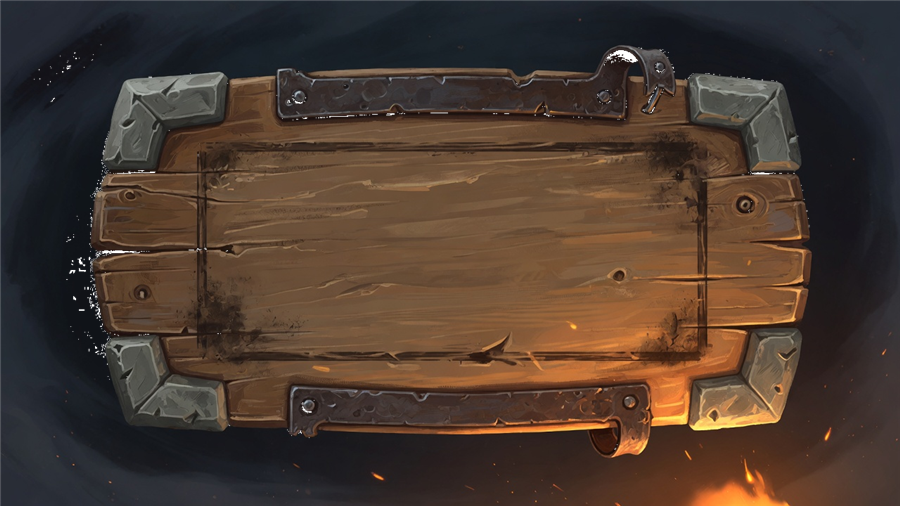
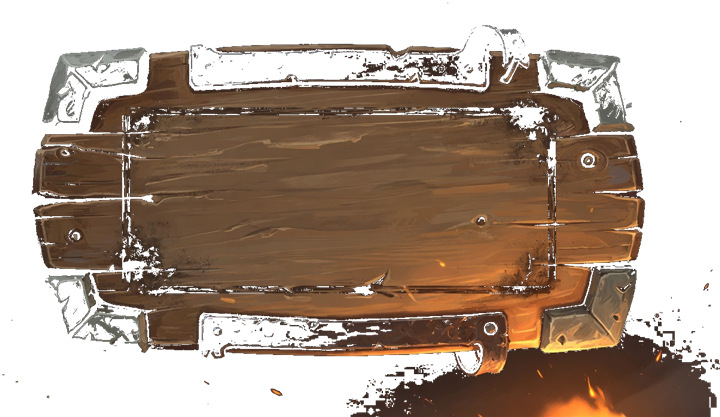
fix(trading-post): cutout painted buttons + better relic Sell placement
Alpha-cut wood plate art so buttons show drawn irregular edges instead
of a sharp theme rectangle. Relic Sell is centered under the inspect
popup (not a full-width bottom bar). Shop Trade uses the same plate.

diff --git a/mods/trading-post/src/TradeUi.cs b/mods/trading-post/src/TradeUi.cs
@@ -109,20 +109,19 @@ public static class TradeUi
 
     private static void BuildButtonStyles()
     {
-        // Prefer rest-site painted plates (soft irregular edges) over sharp flat chrome.
+        // Full painted silhouette (alpha cutout). No 9-slice — stretch preserves
+        // irregular edges instead of re-boxing the plate.
         Texture2D? plate = TradeAssets.BtnRestBar ?? TradeAssets.BtnPlate;
-        StyleBoxTexture? painted = TradeAssets.MakeNineSlice(plate, margin: 48f, content: 22f);
+        StyleBoxTexture? painted = TradeAssets.MakePaintedPlateStyle(plate);
         if (painted != null)
         {
             _btnNormal = painted;
-            // Same plate for hover/pressed — brightness is handled by the engine's
-            // button draw modes; StyleBoxTexture has no modulate in this Godot API.
             _btnHover = painted;
             _btnPressed = painted;
             return;
         }
 
-        // Soft rounded fallback (still not sharp 1px edges).
+        // Soft rounded fallback only if plate art missing.
         StyleBoxFlat Make(Color bg, Color border)
         {
             return new StyleBoxFlat
@@ -130,8 +129,8 @@ public static class TradeUi
                 BgColor = bg,
                 BorderColor = border,
                 BorderWidthBottom = 3, BorderWidthTop = 3, BorderWidthLeft = 3, BorderWidthRight = 3,
-                CornerRadiusBottomLeft = 18, CornerRadiusBottomRight = 18,
-                CornerRadiusTopLeft = 18, CornerRadiusTopRight = 18,
+                CornerRadiusBottomLeft = 22, CornerRadiusBottomRight = 22,
+                CornerRadiusTopLeft = 22, CornerRadiusTopRight = 22,
                 ContentMarginLeft = 22, ContentMarginRight = 22,
                 ContentMarginTop = 14, ContentMarginBottom = 14,
             };
@@ -141,12 +140,78 @@ public static class TradeUi
         _btnPressed = Make(new Color(0.07f, 0.05f, 0.04f, 0.96f), new Color(0.40f, 0.30f, 0.15f));
     }
 
-    /// <summary>Public factory for painted rest-site-style buttons (relic sell, etc.).</summary>
+    /// <summary>
+    /// Rest-site style drawn button: alpha-cut wood plate as the only chrome
+    /// (no sharp default Button panel). Used for relic Sell and shop Trade UI.
+    /// </summary>
     public static Button MakePaintedButton(string text, Action onPressed,
-        float minWidth = 620, float minHeight = 64)
+        float minWidth = 300, float minHeight = 84)
     {
         EnsureStyles();
-        return MakeButton(text, onPressed, minWidth, minHeight);
+        Texture2D? plate = TradeAssets.BtnRestBar ?? TradeAssets.BtnPlate;
+
+        var button = new Button
+        {
+            Text = "",
+            Flat = true,
+            CustomMinimumSize = new Vector2(minWidth, minHeight),
+            ClipContents = false,
+        };
+        // Strip every default stylebox — otherwise Godot draws a sharp rect under the art.
+        var empty = new StyleBoxEmpty();
+        button.AddThemeStyleboxOverride("normal", empty);
+        button.AddThemeStyleboxOverride("hover", empty);
+        button.AddThemeStyleboxOverride("pressed", empty);
+        button.AddThemeStyleboxOverride("disabled", empty);
+        button.AddThemeStyleboxOverride("focus", empty);
+
+        if (plate != null)
+        {
+            var bg = new TextureRect
+            {
+                Name = "PaintedPlate",
+                Texture = plate,
+                ExpandMode = TextureRect.ExpandModeEnum.IgnoreSize,
+                StretchMode = TextureRect.StretchModeEnum.KeepAspectCentered,
+                MouseFilter = Control.MouseFilterEnum.Ignore,
+                // Slight brighten on hover via modulate is optional; keep static for now.
+            };
+            bg.SetAnchorsAndOffsetsPreset(Control.LayoutPreset.FullRect);
+            button.AddChild(bg);
+            // Ensure plate draws behind the label.
+            button.MoveChild(bg, 0);
+        }
+        else
+        {
+            ApplyButtonChrome(button);
+        }
+
+        var label = new Label
+        {
+            Text = text,
+            HorizontalAlignment = HorizontalAlignment.Center,
+            VerticalAlignment = VerticalAlignment.Center,
+            MouseFilter = Control.MouseFilterEnum.Ignore,
+        };
+        label.SetAnchorsAndOffsetsPreset(Control.LayoutPreset.FullRect);
+        label.OffsetLeft = 28;
+        label.OffsetRight = -28;
+        label.OffsetTop = 8;
+        label.OffsetBottom = -10;
+        if (_buttonFont != null)
+        {
+            label.AddThemeFontOverride("font", _buttonFont);
+        }
+        label.AddThemeFontSizeOverride("font_size", _buttonSize + 2);
+        label.AddThemeColorOverride("font_color", new Color(0.96f, 0.92f, 0.78f));
+        // Soft shadow for readability on wood
+        label.AddThemeColorOverride("font_shadow_color", new Color(0f, 0f, 0f, 0.65f));
+        label.AddThemeConstantOverride("shadow_offset_x", 1);
+        label.AddThemeConstantOverride("shadow_offset_y", 1);
+        button.AddChild(label);
+
+        button.Pressed += () => onPressed();
+        return button;
     }
 
     private static StyleBox? FindPanelStyle(Node node)
@@ -219,6 +284,11 @@ public static class TradeUi
             button.AddThemeFontOverride("font", _buttonFont);
         }
         button.AddThemeFontSizeOverride("font_size", _buttonSize);
+        // Flat + empty focus so the theme never paints a sharp rect around the plate.
+        button.Flat = true;
+        var empty = new StyleBoxEmpty();
+        button.AddThemeStyleboxOverride("focus", empty);
+        button.AddThemeStyleboxOverride("disabled", empty);
         if (_btnNormal != null)
         {
             button.AddThemeStyleboxOverride("normal", _btnNormal);
@@ -235,6 +305,11 @@ public static class TradeUi
 
     private static Button MakeButton(string text, Action onPressed, float minWidth = 620, float minHeight = 64)
     {
+        // Prefer painted cutout plate for all Trading Post chrome buttons.
+        if (TradeAssets.BtnRestBar != null || TradeAssets.BtnPlate != null)
+        {
+            return MakePaintedButton(text, onPressed, minWidth, minHeight);
+        }
         var button = new Button { Text = text, CustomMinimumSize = new Vector2(minWidth, minHeight) };
         ApplyButtonChrome(button);
         button.Pressed += () => onPressed();
@@ -245,12 +320,41 @@ public static class TradeUi
     private static Button MakeIconButton(string text, Texture2D? icon, Action onPressed,
         float minWidth = 640, float minHeight = 88)
     {
+        // Use the same drawn plate path so shop Trade isn't a sharp rect.
+        if (icon == null && (TradeAssets.BtnRestBar != null || TradeAssets.BtnPlate != null))
+        {
+            return MakePaintedButton(text, onPressed, minWidth, minHeight);
+        }
+
         var button = new Button
         {
             CustomMinimumSize = new Vector2(minWidth, minHeight),
             Text = "", // content is custom
+            Flat = true,
         };
-        ApplyButtonChrome(button);
+        // Empty chrome + painted plate as child (keeps alpha silhouette).
+        var empty = new StyleBoxEmpty();
+        button.AddThemeStyleboxOverride("normal", empty);
+        button.AddThemeStyleboxOverride("hover", empty);
+        button.AddThemeStyleboxOverride("pressed", empty);
+        button.AddThemeStyleboxOverride("focus", empty);
+        Texture2D? plate = TradeAssets.BtnRestBar ?? TradeAssets.BtnPlate;
+        if (plate != null)
+        {
+            var bg = new TextureRect
+            {
+                Texture = plate,
+                ExpandMode = TextureRect.ExpandModeEnum.IgnoreSize,
+                StretchMode = TextureRect.StretchModeEnum.KeepAspectCentered,
+                MouseFilter = Control.MouseFilterEnum.Ignore,
+            };
+            bg.SetAnchorsAndOffsetsPreset(Control.LayoutPreset.FullRect);
+            button.AddChild(bg);
+        }
+        else
+        {
+            ApplyButtonChrome(button);
+        }
 
         var row = new HBoxContainer
         {
@@ -396,16 +500,15 @@ public static class TradeUi
     public static void AddTradeButton(Control shopScreen)
     {
         EnsureStyles();
-        // Prefer the campfire-option plate look over a sharp chrome widget.
-        Button button = MakeIconButton("Trade", TradeAssets.IconGold ?? TradeAssets.IconTrade, OpenMenu,
-            minWidth: 300, minHeight: 84);
+        // Drawn wood plate cutout (alpha edges) — not a sharp theme rect.
+        Button button = MakePaintedButton("Trade", OpenMenu, minWidth: 300, minHeight: 96);
         button.Name = "TradingPostButton";
         shopScreen.AddChild(button);
         button.SetAnchorsAndOffsetsPreset(Control.LayoutPreset.BottomLeft);
-        button.OffsetLeft = 28;
-        button.OffsetRight = 328;
-        button.OffsetTop = -150;
-        button.OffsetBottom = -66;
+        button.OffsetLeft = 24;
+        button.OffsetRight = 324;
+        button.OffsetTop = -158;
+        button.OffsetBottom = -62;
     }
 
     private static void OpenMenu()

diff --git a/mods/trading-post/src/TradeAssets.cs b/mods/trading-post/src/TradeAssets.cs
@@ -14,10 +14,13 @@ public static class TradeAssets
     public static Texture2D? OptionTrade => Load("option_trade.png", punchBlack: false);
     public static Texture2D? MenuBanner => Load("menu_banner.png", punchBlack: false);
     public static Texture2D? MenuPanel => Load("menu_panel.png", punchBlack: false);
-    /// <summary>Painted rest-site style horizontal button plate (soft edges, wood/stone).</summary>
-    public static Texture2D? BtnPlate => Load("btn_plate.png", punchBlack: false)
-                                        ?? Load("btn_rest_bar.png", punchBlack: false);
-    public static Texture2D? BtnRestBar => Load("btn_rest_bar.png", punchBlack: false) ?? BtnPlate;
+    /// <summary>
+    /// Painted rest-site style horizontal button plate. Loaded with dark-bg punch so
+    /// only the drawn wood silhouette is opaque (no sharp rectangular plate).
+    /// </summary>
+    public static Texture2D? BtnPlate => Load("btn_plate.png", punchBlack: true)
+                                        ?? Load("btn_rest_bar.png", punchBlack: true);
+    public static Texture2D? BtnRestBar => Load("btn_rest_bar.png", punchBlack: true) ?? BtnPlate;
     public static Texture2D? IconGold => Load("icon_gold.png") ?? TryGame("res://images/packed/sprite_fonts/gold_icon.png");
     public static Texture2D? IconCard => Load("icon_card.png");
     public static Texture2D? IconTrade => Load("icon_trade.png") ?? OptionTrade;
@@ -92,8 +95,9 @@ public static class TradeAssets
     }
 
     /// <summary>
-    /// Convert near-black fully-opaque pixels to transparent (legacy uncut icons only).
-    /// Skipped for full-bleed plates that intentionally use dark stone edges.
+    /// Convert dark / cool vignette pixels to transparent so painted plates keep
+    /// irregular drawn edges (no sharp box). Also used for legacy icon cutouts.
+    /// Skipped only when the image is already mostly alpha-cut.
     /// </summary>
     public static void PunchNearBlackToAlpha(Image image)
     {
@@ -112,7 +116,8 @@ public static class TradeAssets
                 }
             }
         }
-        if (samples > 0 && transparent / (float)samples > 0.05f)
+        // Already a cutout (e.g. option_trade) — leave alone.
+        if (samples > 0 && transparent / (float)samples > 0.12f)
         {
             return;
         }
@@ -122,14 +127,49 @@ public static class TradeAssets
             for (int x = 0; x < w; x++)
             {
                 Color c = image.GetPixel(x, y);
+                if (c.A < 0.02f)
+                {
+                    continue;
+                }
                 float maxc = Math.Max(c.R, Math.Max(c.G, c.B));
                 float lum = 0.2126f * c.R + 0.7152f * c.G + 0.0722f * c.B;
-                if (lum < 0.07f && maxc < 0.11f)
+                float warm = c.R - c.B; // wood is warm; bg is cool/dark
+                bool darkBg = lum < 0.16f
+                              || (lum < 0.28f && warm < 0.10f && c.B >= c.G - 0.02f)
+                              || (lum < 0.35f && warm < 0.05f && maxc < 0.43f);
+                if (darkBg)
                 {
                     c.A = 0f;
                     image.SetPixel(x, y, c);
                 }
             }
         }
+    }
+
+    /// <summary>
+    /// StyleBox that draws the full painted plate with alpha (no 9-slice stretch artifacts
+    /// that re-introduce boxy edges). Content margins keep text inside the wood face.
+    /// </summary>
+    public static StyleBoxTexture? MakePaintedPlateStyle(Texture2D? tex)
+    {
+        if (tex == null)
+        {
+            return null;
+        }
+        // Zero texture margins = draw whole silhouette; content margins inset the label.
+        return new StyleBoxTexture
+        {
+            Texture = tex,
+            TextureMarginLeft = 0,
+            TextureMarginRight = 0,
+            TextureMarginTop = 0,
+            TextureMarginBottom = 0,
+            ContentMarginLeft = 36,
+            ContentMarginRight = 36,
+            ContentMarginTop = 18,
+            ContentMarginBottom = 20,
+            AxisStretchHorizontal = StyleBoxTexture.AxisStretchMode.Stretch,
+            AxisStretchVertical = StyleBoxTexture.AxisStretchMode.Stretch,
+        };
     }
 }

diff --git a/mods/trading-post/src/SellUi.cs b/mods/trading-post/src/SellUi.cs
@@ -288,22 +288,27 @@ public static class SellUi
             return;
         }
 
+        // Prefer the inspect popup panel; fall back to the full screen.
         Control host = FindRelicPopupHost(screen) ?? screen;
         int gold = SellPricing.RelicSellPrice(relic);
+        // Wider short plate — wood art is ~16:9; keep aspect so edges aren't squashed boxy.
         Button sell = TradeUi.MakePaintedButton($"Sell  ·  {gold}g", () => OnRelicSellPressed(screen, relic),
-            minWidth: 280, minHeight: 72);
+            minWidth: 320, minHeight: 96);
         sell.Name = RelicSellButtonName;
         host.AddChild(sell);
 
-        // Bottom-center of the inspect popup
-        sell.SetAnchorsAndOffsetsPreset(Control.LayoutPreset.BottomWide);
+        // Centered under the relic art / description, not a full-width bottom bar.
         sell.AnchorLeft = 0.5f;
         sell.AnchorRight = 0.5f;
-        sell.OffsetLeft = -140;
-        sell.OffsetRight = 140;
-        sell.OffsetTop = -110;
-        sell.OffsetBottom = -38;
+        sell.AnchorTop = 1f;
+        sell.AnchorBottom = 1f;
+        sell.OffsetLeft = -160;
+        sell.OffsetRight = 160;
+        sell.OffsetTop = -118;
+        sell.OffsetBottom = -22;
         sell.GrowHorizontal = Control.GrowDirection.Both;
+        sell.GrowVertical = Control.GrowDirection.Begin;
+        sell.ZIndex = 20;
 
         MainFile.Logger.Info($"Relic sell button injected for {relic.Id} ({gold}g).");
     }
